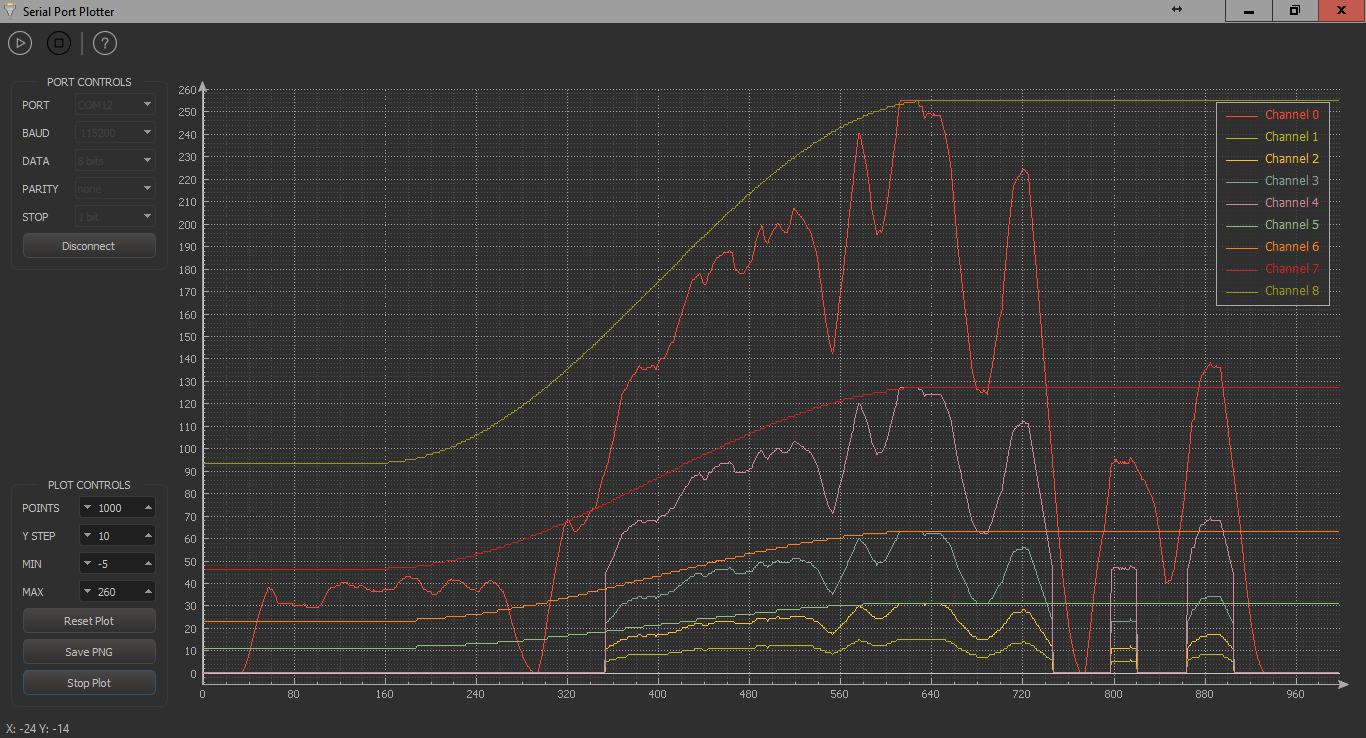
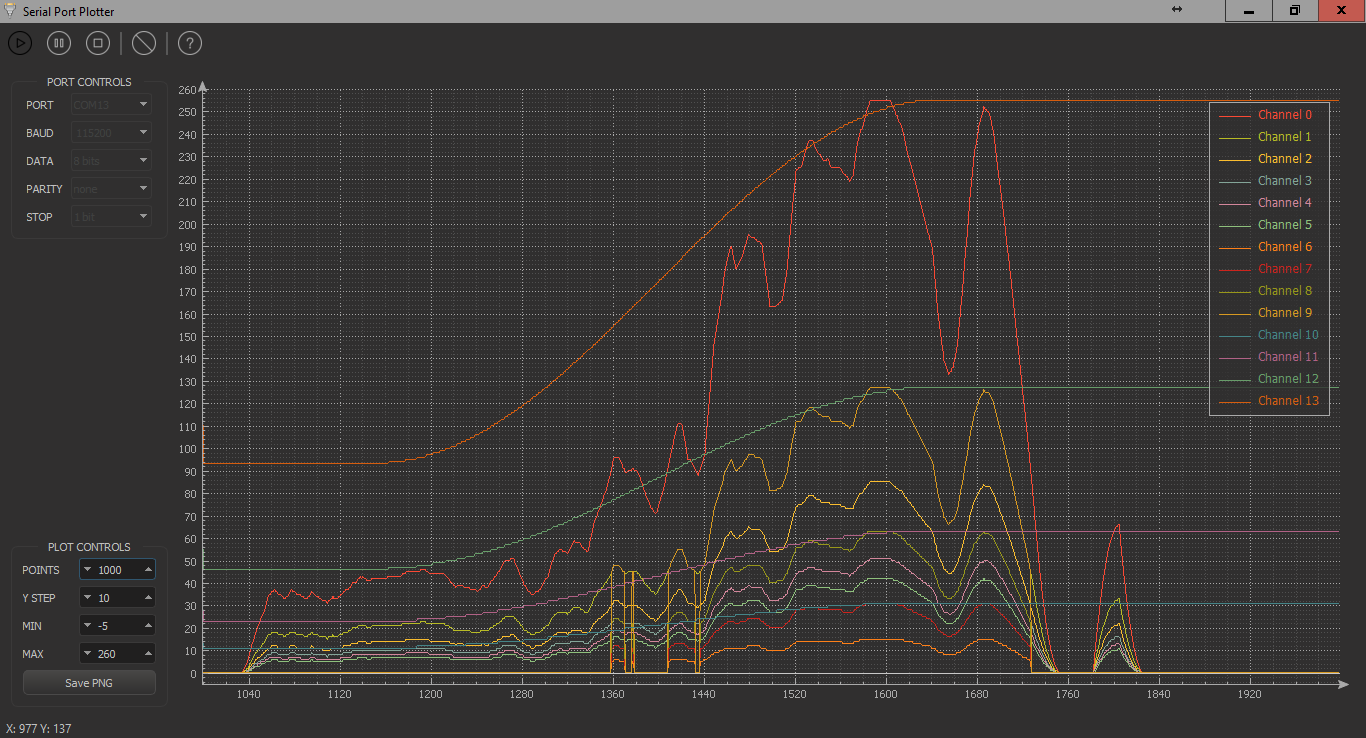
Update README.md + screen

diff --git a/README.md b/README.md
@@ -7,7 +7,7 @@ This is a Windows application that displays real time data from serial port. The
 - 14 available line colors (cyclic)
 - No data point limit: All received data is kept so user can explore old data
 - Exports to PNG
-- Zooming and dragging using the mouse wheel (X axis only, when paused)
+- Zooming and dragging using the mouse wheel (X axis only)
 - Moving around the plot displays the X and Y values of the graph in the status bar
 - Channel's name legend (double-click to modify)
 - Channel selection (click on legend's text)
@@ -52,6 +52,7 @@ This project adheres to [Semantic Versioning](http://semver.org/).
 - *Line Icon Set* icons in 3 colors
 - *Lynny* icons in 3 colors
 - Inno Setup file with auto-pack .bat file (installer tested on WinXP-32b and Win10-64b)
+- Play/Pause/Stop, Clear and Help toolbar buttons
 
 ### Changed
 - Resources structure
